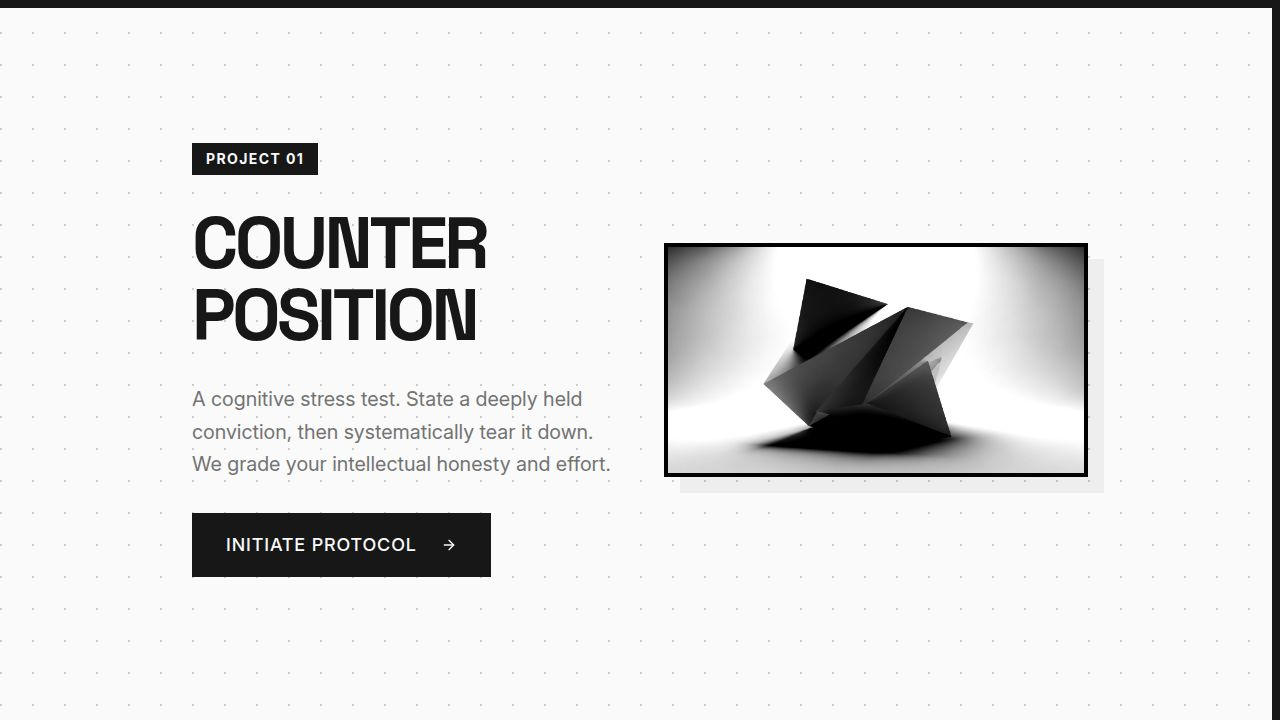
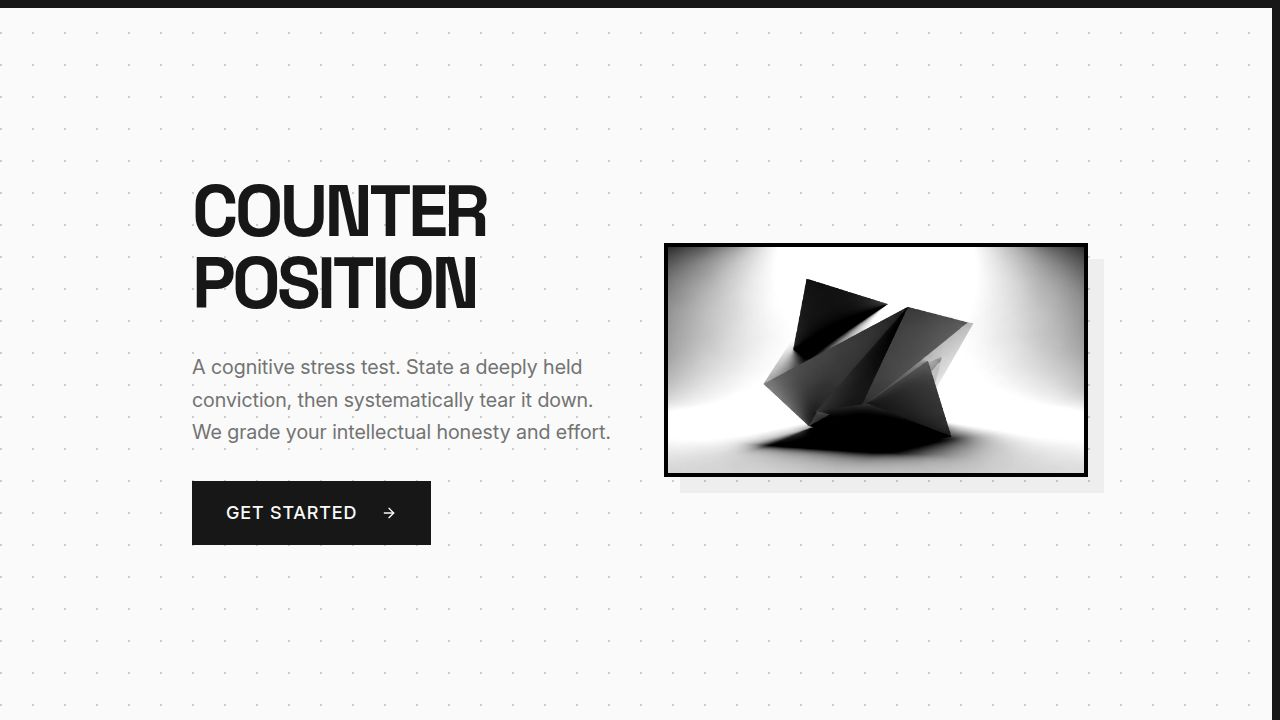
Update website text to improve clarity and user guidance
Modify text elements in the home page component, specifically removing "Project 01" and changing "Initiate Protocol" to "Get Started."

Replit-Commit-Author: Agent
Replit-Commit-Session-Id: c56cb9f0-ece5-44cb-8091-604c8c0c9004
Replit-Commit-Checkpoint-Type: full_checkpoint
Replit-Commit-Event-Id: 64f08bca-e9c9-4674-b6de-457db0d43c29
Replit-Commit-Screenshot-Url: https://storage.googleapis.com/screenshot-production-us-central1/ae5b64c9-4776-44ef-aa27-5b3fa9850580/c56cb9f0-ece5-44cb-8091-604c8c0c9004/v5uxTPS
Replit-Helium-Checkpoint-Created: true

Changed region(s): [[0.125, 0.1833, 0.4688, 0.5194], [0.125, 0.55, 0.4688, 0.825]]

diff --git a/client/src/pages/home.tsx b/client/src/pages/home.tsx
@@ -64,9 +64,6 @@ export default function Home() {
             className="w-full max-w-4xl grid md:grid-cols-2 gap-12 items-center"
           >
             <div className="space-y-8">
-              <div className="inline-block border-2 border-foreground px-3 py-1 text-sm font-bold uppercase tracking-widest bg-foreground text-background">
-                Project 01
-              </div>
               <h1 className="text-6xl sm:text-7xl font-bold uppercase tracking-tighter leading-none">
                 Counter<br/>Position
               </h1>
@@ -78,7 +75,7 @@ export default function Home() {
                 size="lg" 
                 className="rounded-none border-2 border-foreground h-16 px-8 text-lg uppercase tracking-wider group hover:bg-transparent hover:text-foreground transition-all duration-300"
               >
-                Initiate Protocol
+                Get Started
                 <ArrowRight className="ml-4 h-6 w-6 group-hover:translate-x-2 transition-transform" />
               </Button>
             </div>
